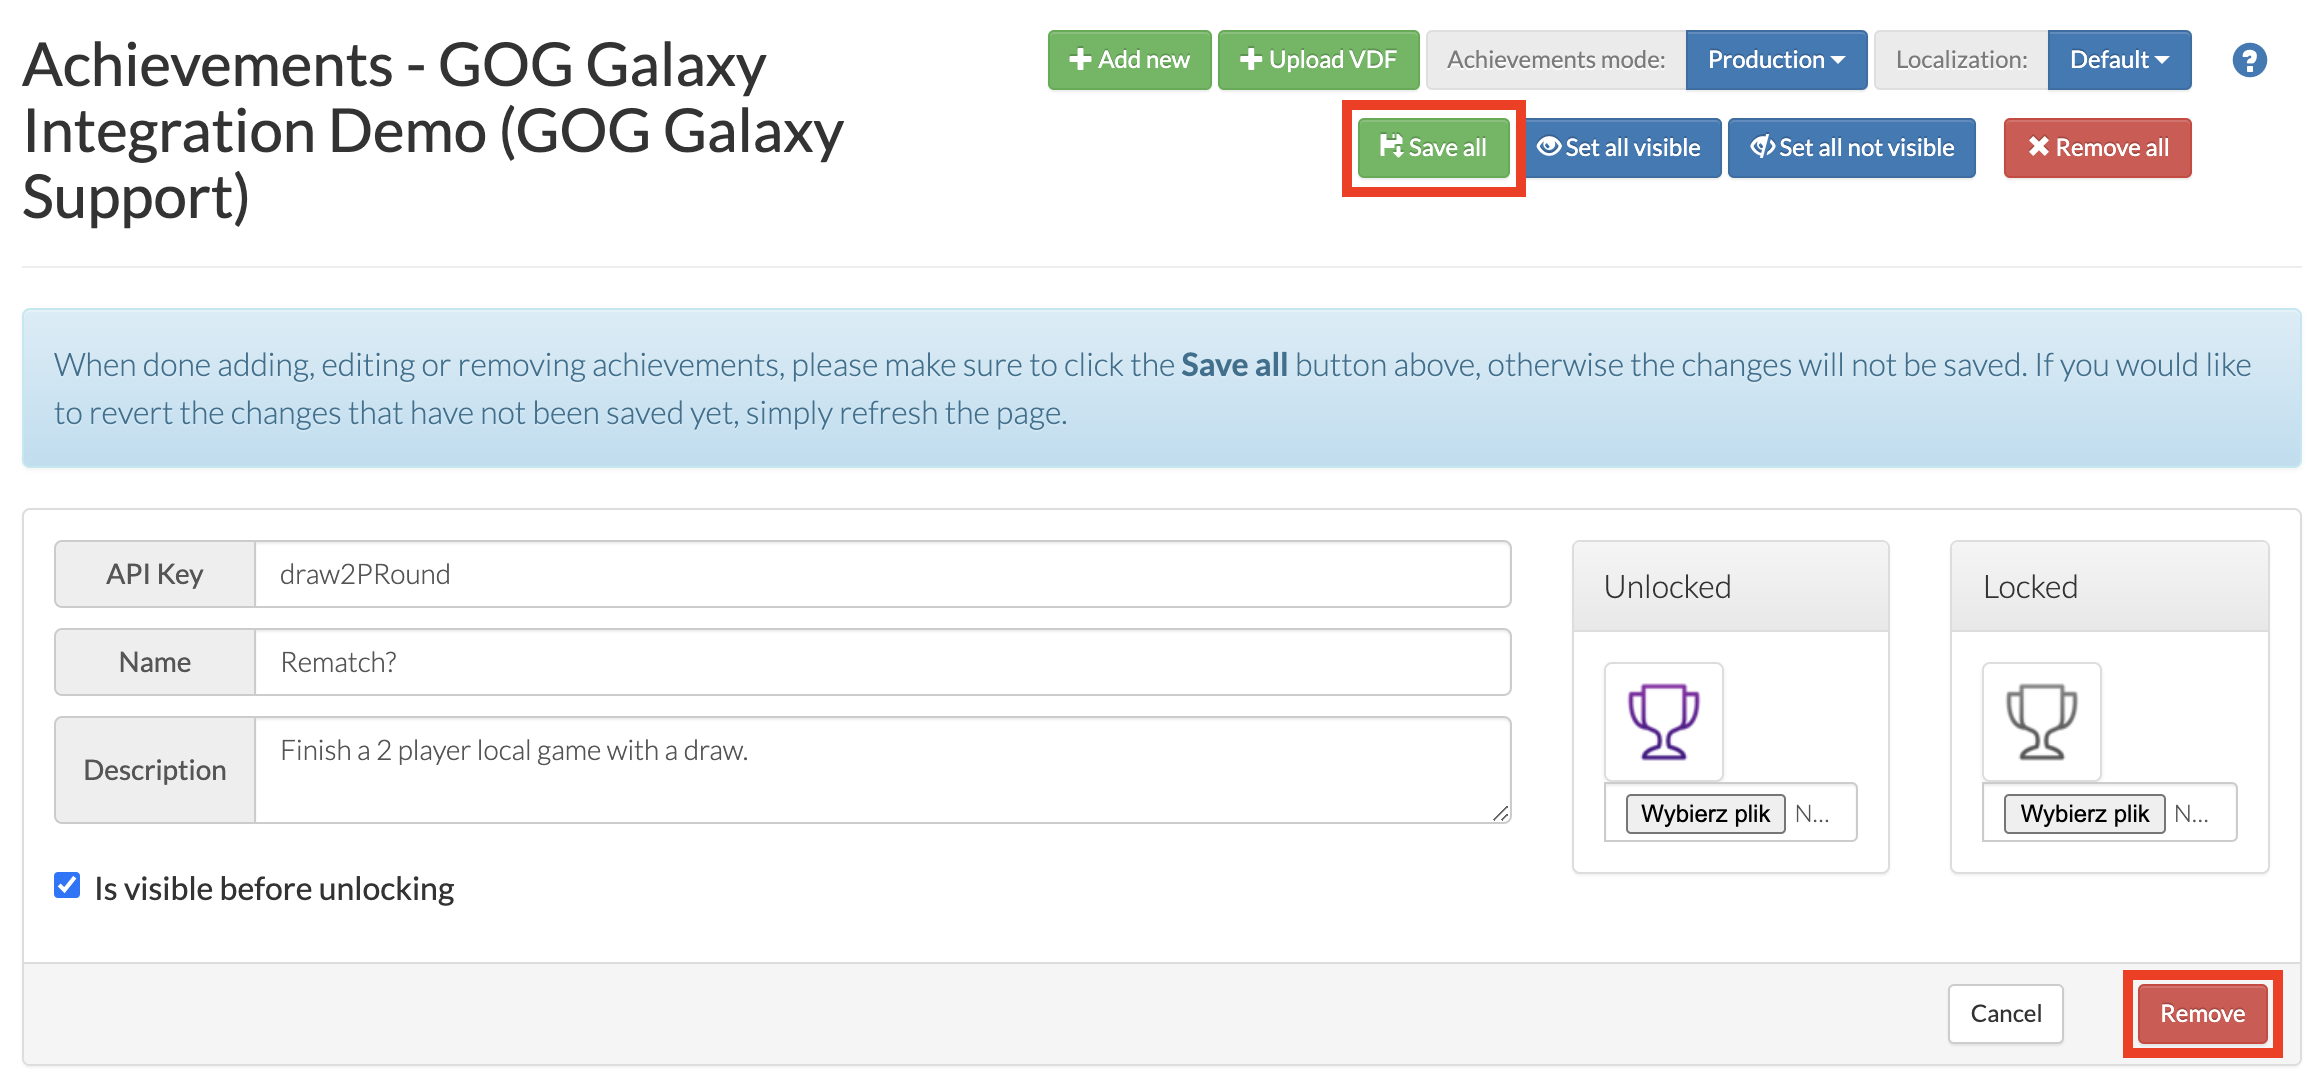
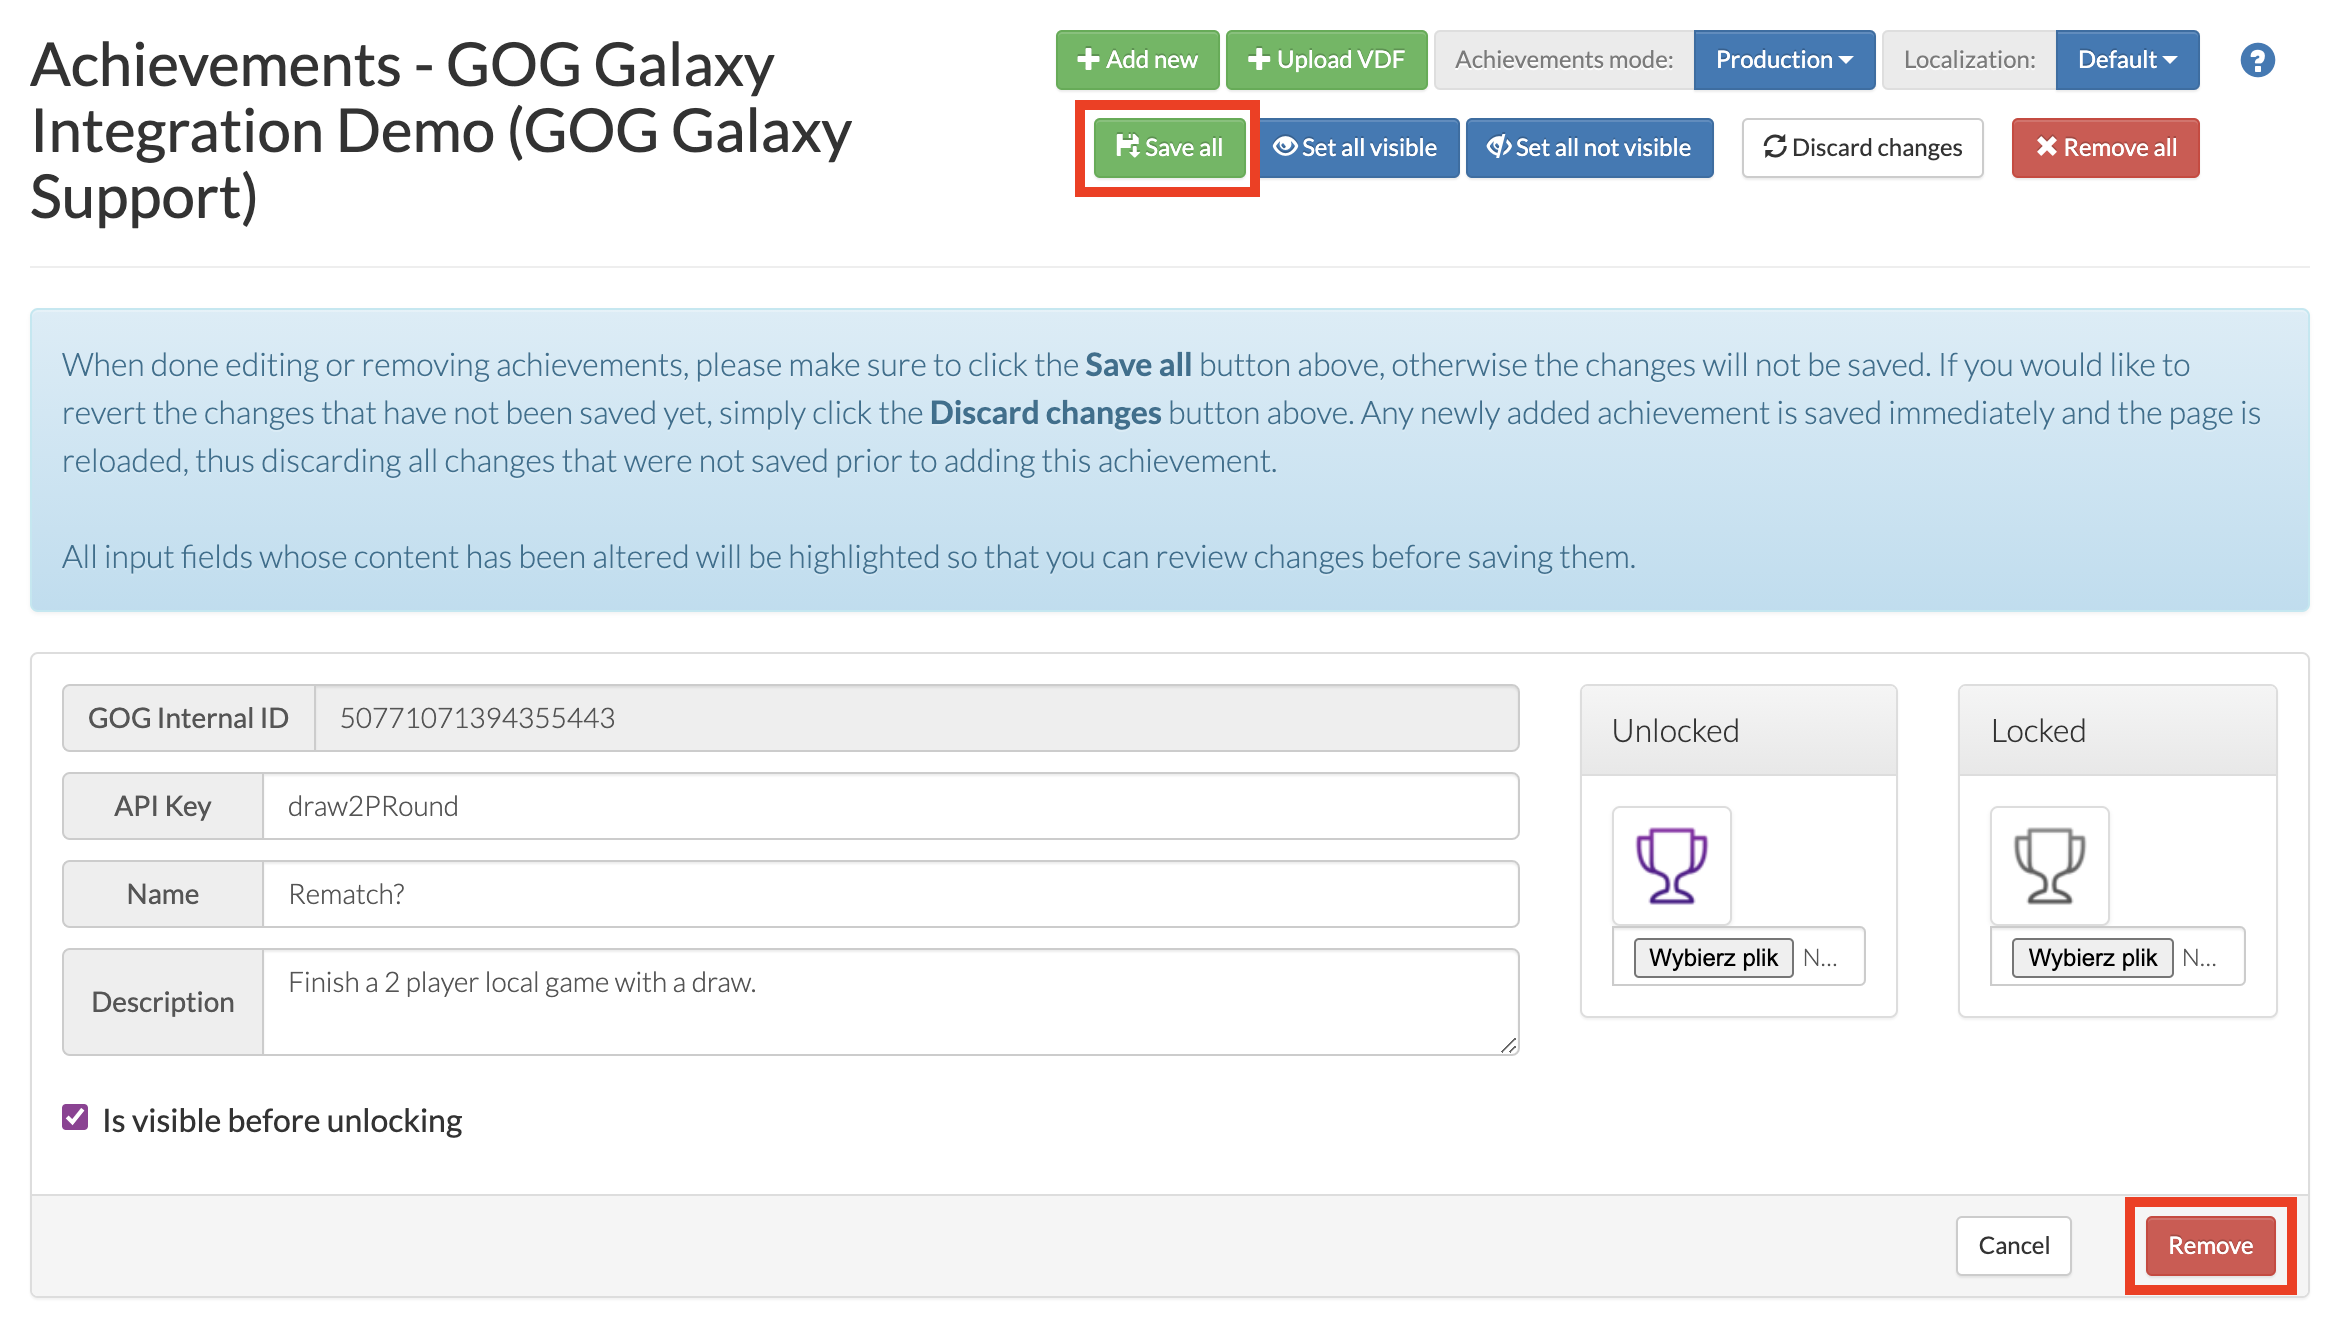
An update from the GOG team

diff --git a/docs/achievements.md b/docs/achievements.md
@@ -26,6 +26,9 @@ To add a new achievement:
 
 5. Click the green *Add* button.
 
+!!! Important "Save Changes Before Adding a New Achievement"
+    Any newly added achievement is saved immediately and the page is reloaded, thus discarding all changes that were not saved with the green *Save All* button prior to adding this achievement.
+
 ## Editing an Existing Achievement
 
 It’s done exactly as with adding a new achievement, only without steps #1 and #5, obviously.
